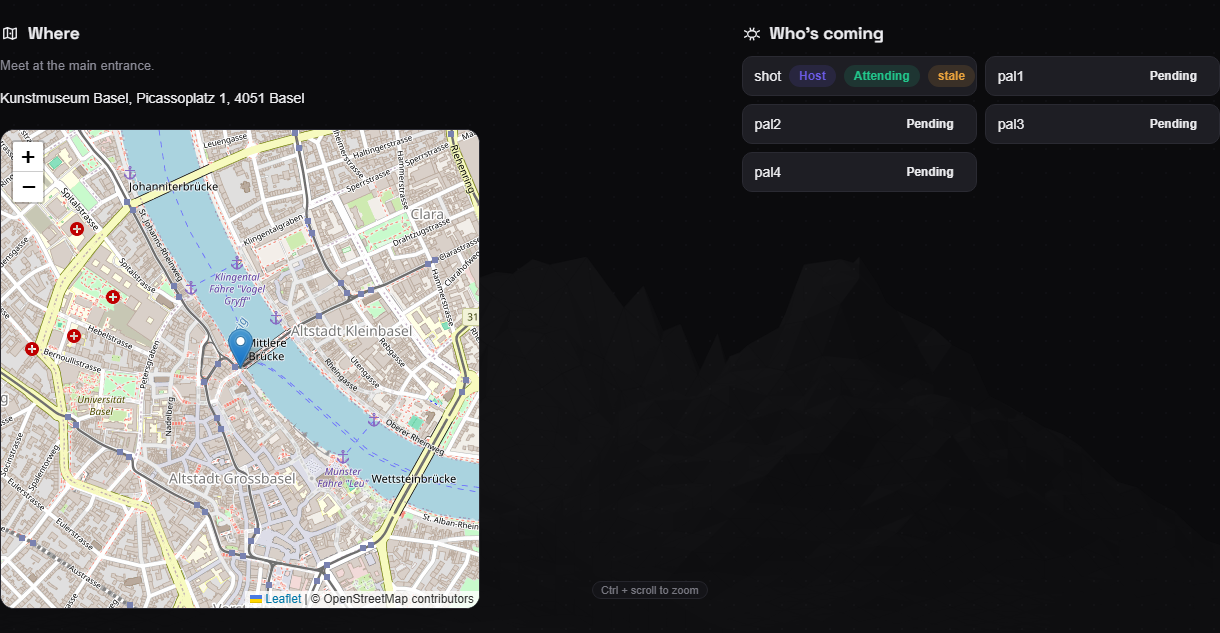
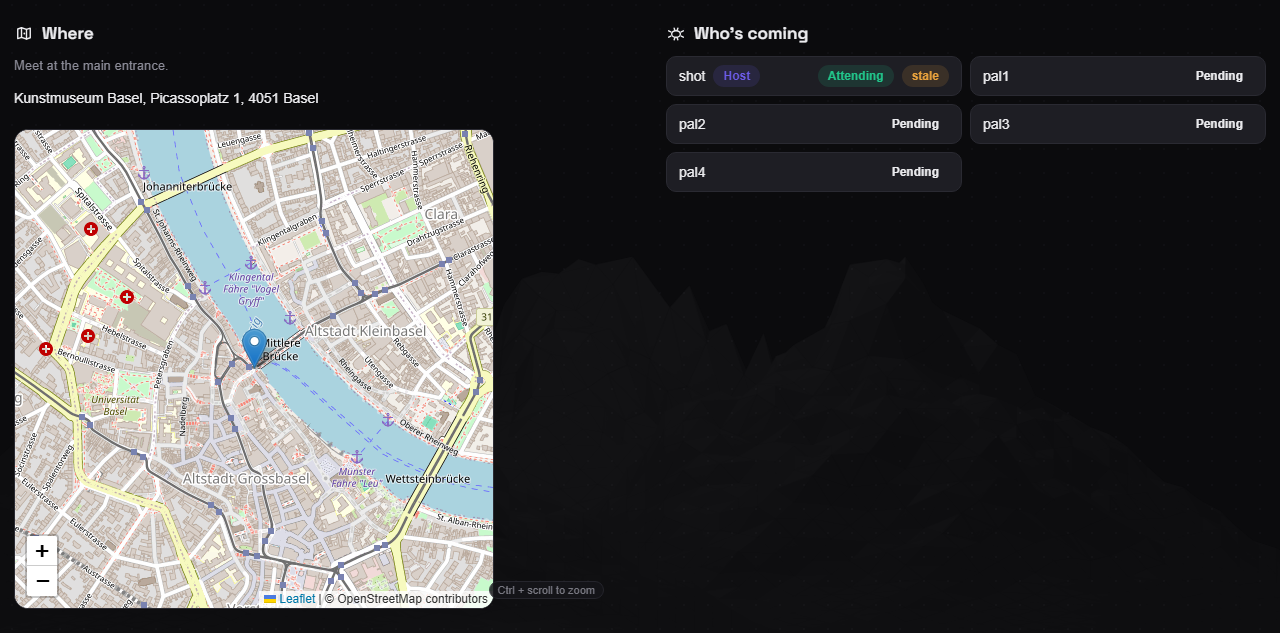
events: round-6 closeout — breakout cascade fix, mobile gutters kept, TODO entry
- move the desktop main/chat negative-margin breakout into its own
  block AFTER the .event-chat margin reset so it wins the cascade
  (was emitting a 32px desktop overflow when the width stuck but the
  margin reset won)
- mobile: .event-main keeps zero padding, but hero scrim and chat
  inner retain --event-gutter so the title never touches the edge
  (verified: scrim padding-left 12px, title x=12 at 390px viewport)
- TODO.md: round-6 entry marked done with the full shipped summary
- regenerate ev5-* verification shots (desktop+mobile overflow 0/0)

diff --git a/flask_app/static/css/pages/events.css b/flask_app/static/css/pages/events.css
@@ -897,12 +897,11 @@ select.field-input { cursor: pointer; }
 
 /* the hero breaks out of the sidenav gap and touches the sidebar — only
    on desktop, where #content still carries the sidenav offset. Round 6:
-   the section separators and the chat band are flush to the sidenav too,
-   so the breakout applies to the whole page body. */
+   the section separators and the chat band are flush to the sidenav too
+   (their breakout rule lives below the .event-chat margin reset so it
+   wins the cascade). */
 @media (min-width: 769px) {
-    .event-detail-view .event-hero,
-    .event-detail-view .event-main,
-    .event-detail-view .event-chat {
+    .event-detail-view .event-hero {
         margin-left: calc(var(--space-4) * -2);
         width: calc(100% + var(--space-4) * 2);
     }
@@ -922,6 +921,16 @@ select.field-input { cursor: pointer; }
 .event-detail-view .event-chat .event-chat-inner {
     max-width: none;
     padding: 0 var(--event-gutter) var(--space-6);
+}
+/* round 6: hero, main (section separators) and chat all reach the
+   sidenav edge on desktop — same breakout as the hero. AFTER the
+   margin reset above so it wins the cascade. */
+@media (min-width: 769px) {
+    .event-detail-view .event-main,
+    .event-detail-view .event-chat {
+        margin-left: calc(var(--space-4) * -2);
+        width: calc(100% + var(--space-4) * 2);
+    }
 }
 
 /* description: bare prose directly under the hero — the page's subtitle,
@@ -1064,11 +1073,13 @@ select.field-input { cursor: pointer; }
     .events-page:has(.event-detail-view) .events-header {
         padding-left: calc(64px + env(safe-area-inset-left, 0px));
     }
-    .event-detail-view .event-main,
+    /* main's gutter lives on its sections now; the hero scrim and the
+       chat text keep their own (they are not sections) */
+    .event-detail-view .event-main { padding-left: 0; padding-right: 0; }
     .event-detail-view .event-chat .event-chat-inner,
     .event-detail-view .event-hero-scrim {
-        padding-left: 0;
-        padding-right: 0;
+        padding-left: var(--event-gutter);
+        padding-right: var(--event-gutter);
     }
     /* sections carry the gutter themselves on mobile too */
     .event-detail-view .event-section { padding: var(--space-4) var(--event-gutter); }

diff --git a/TODO.md b/TODO.md
@@ -134,15 +134,53 @@ the event hero breaks out left of the `#content` sidenav gap on desktop
 and 390px). Verified: events API 81/81, browser 36/36, socials 68/68 +
 18/18, node --check, screenshots (`stuff/shots/ev5-*.png`).
 
-- [ ] **UI rework round 6 — queued full prompt (execute verbatim in one
-      session). Scope confirmed 2026-11-02: round 6 PLUS the small
-      code-side items in the same sweep** (admin console cleanups — dead
-      `IMG_EXT_BY_MAGIC` + `renderPermissions` extra arg; typeless-apps
-      fallback shelf; max-6-types UI hint; kick button decision;
-      groups member-add chips — see their own entries below, tick them
-      off as part of this session).
+- [x] **UI rework round 6 — executed 2026-11-02** (round 6 + the small
+      code-side items in the same sweep; commits `a54e49e`, `b39af6a`,
+      `b972bb2`). What shipped, per the clarified intents:
+      - **Doodle edits after votes (server)**: the blanket 409 vote-lock
+        is gone — `set_options` keeps every option row whose value is
+        still offered (votes on it survive, ids stable) and wipes votes
+        only with options that were removed/changed. "None of these
+        work" no longer requires a comment (400 deleted). Smoke asserts
+        the per-date rule (`events_api_smoke.py` 88/88).
+      - **Locale-aware address** (`settings.js` `shortAddress`):
+        de/at/ch (plus li) → "Street number, City"; elsewhere
+        "number Street, City" (house-number-first).
+      - **Edit view spacing**: `.edit-module-card` is now a flex column
+        with a real gap (cards were bare blocks — consecutive
+        fields/rows/hints stacked tight); `.doodle-editor` gap bumped;
+        edit-mode map spans the full module card (was capped 480px).
+      - **Hero scrim deleted**: the darker gradient rectangle under the
+        title is gone; title sits directly on the picture with a
+        text-shadow instead (scrim div kept as layout wrapper).
+      - **Title ~9vw** (`clamp(38px, 9vw, 130px)`), subtitle 22px,
+        meta 18px; view doodle text 16px + 18px checkboxes; all
+        `.btn-sm` on the events page bumped to 9px/16px 14px.
+      - **Info row 50/50** — map and "Who's coming" split the page
+        width equally (was 3:2).
+      - **Flush to the sidenav**: the desktop negative-margin breakout
+        applies to `.event-main` and `.event-chat` as well, so section
+        separators and the chat band touch the sidenav; the gutter
+        padding moved onto the sections so hairlines stay full-width.
+      - **Leaflet zoom control** moved to bottom-left in both maps (it
+        was buried under the edit-mode search overlay at top-left).
+      - **Chat speech blobs**: every message is a bubble (surface on
+        the surface-2 band, own messages accent-tinted).
+      - **"Your RSVP:" label removed** (buttons speak for themselves);
+        doodle host hint now says votes survive per-date on edits;
+        Reset-votes confirm text updated (no longer claims you must
+        reset before editing).
+      - **Small code items**: dead `IMG_EXT_BY_MAGIC` removed,
+        `renderPermissions` extra arg fixed, Kick button added next to
+        Lock out (`force_logout` finally surfaced), groups member-add
+        is chips now, max-6-types hint in the Types panel, and a
+        fallback **"Other" shelf** for typeless apps in the app corner.
+      Verified 2026-11-02: `events_api_smoke.py` 88/88 (RED 3 before),
+      `browser_smoke.py` 36/36 zero console/page errors, socials smoke
+      re-run clean, `node --check` on all touched JS, screenshots in
+      `stuff/shots/` (desktop + mobile, zero horizontal overflow).
 
-      Clarifications from the operator (2026-11-02), resolved:
+      Original clarifications (for the record):
       - **German address format = "Street number, City"** (standard
         German order), locale-keyed on `country_code` de/at/ch; keep
         "number Street" style elsewhere.
